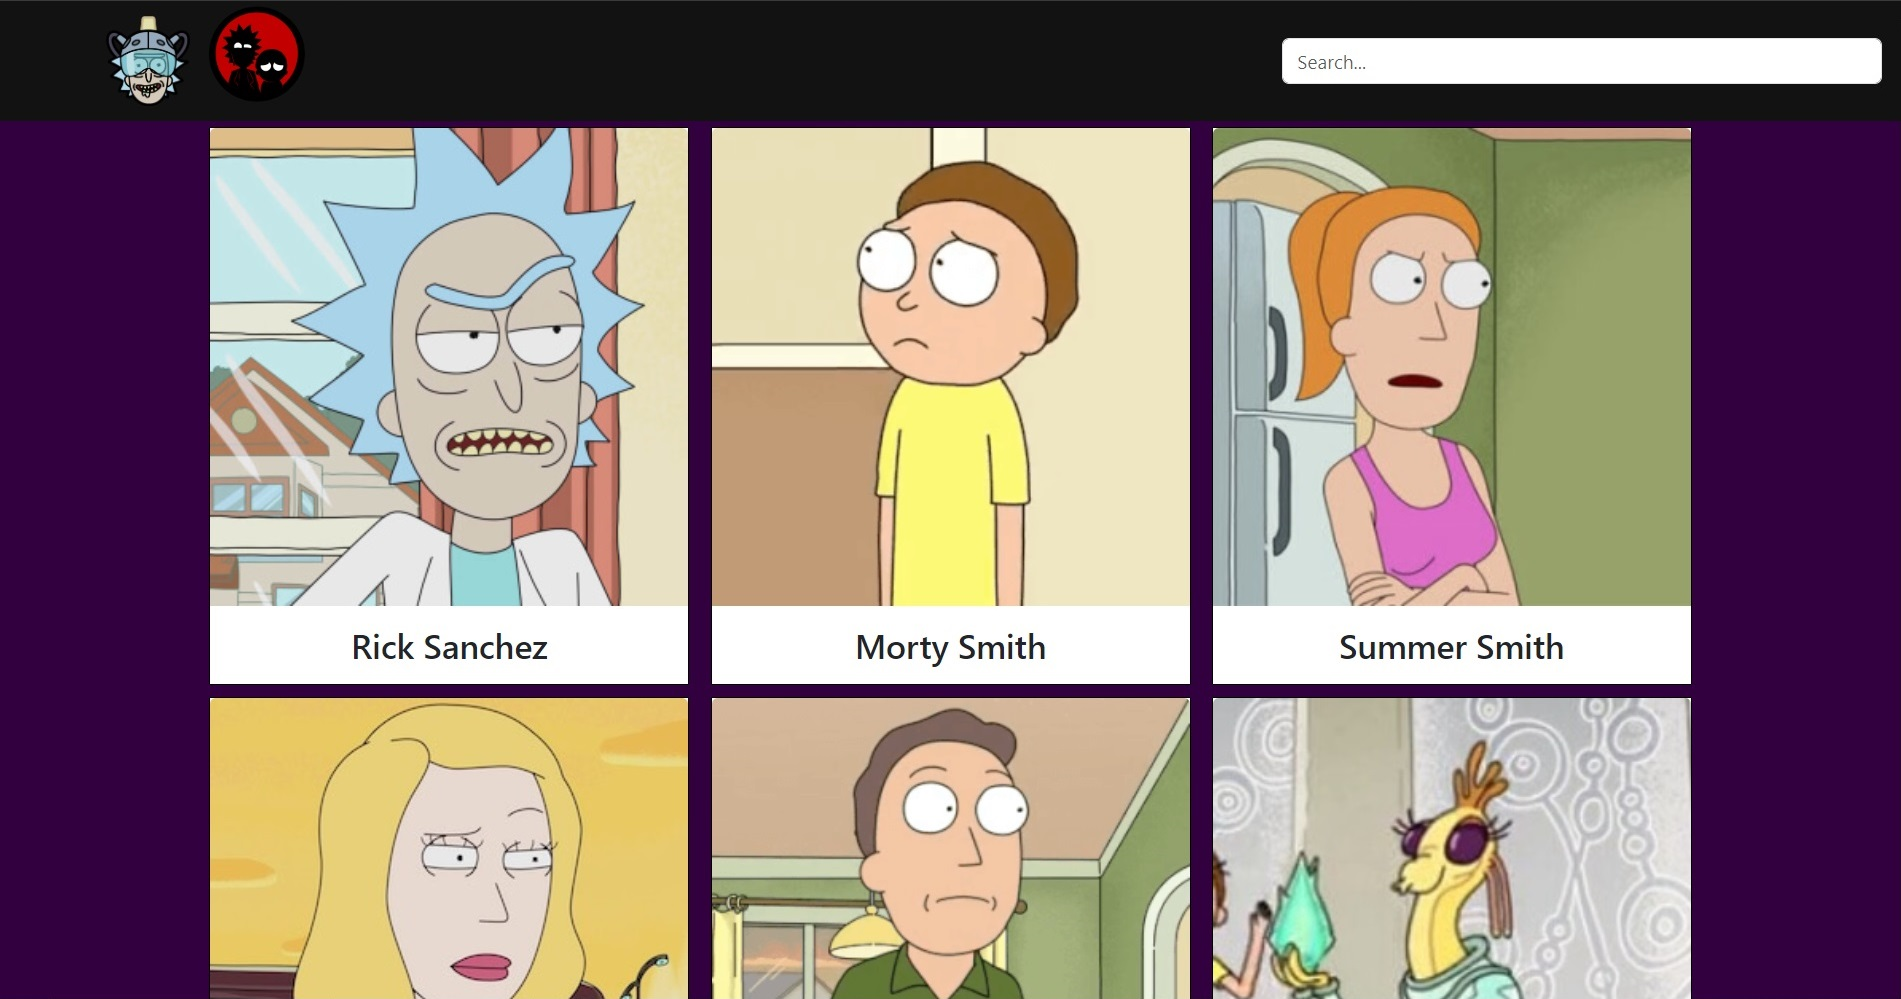
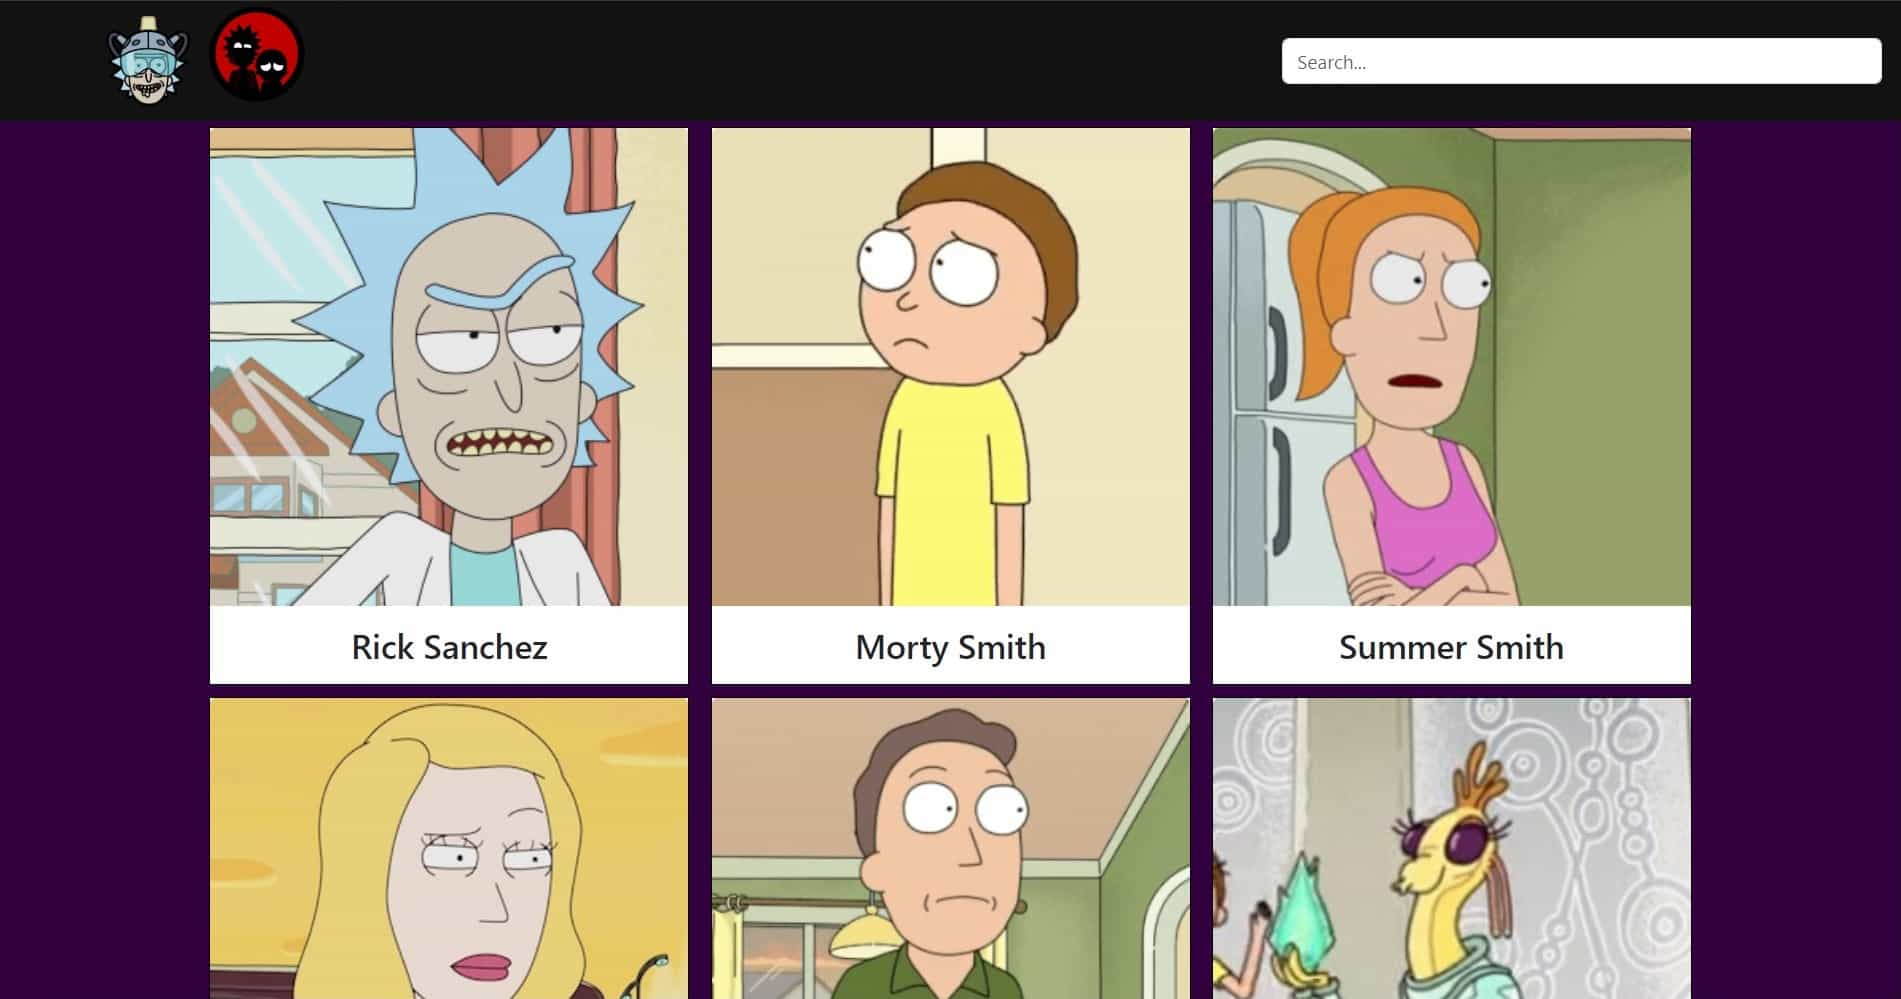
size down images

diff --git a/src/dataBase/PROYECTS.js b/src/dataBase/PROYECTS.js
@@ -1,5 +1,3 @@
-import videoPrueba from './prueba.jpeg';
-import videoPruebaMobile from './pruebaMobile.jpeg';
 import imagen01 from './picture-web-projects/01.jpg';
 import imagen02 from './picture-web-projects/02.jpg';
 import imagen03 from './picture-web-projects/03.jpg';
@@ -17,6 +15,7 @@ export const PROJECTS_WEB = [
     //     page: "https://rick-and-morty-all-characters.netlify.app/",
     //     description: "Lorem Ipsum is simply dummy text of the printing and typesetting industry. Lorem Ipsum has been the industry's standard dummy text ever since the 1500s, when an unknown printer took a galley of type and scrambled it to make a type specimen book. It has survived not only five centuries, but also the leap into electronic typesetting, remaining essentially unchanged. It was popularised in the 1960s with the release of Letraset sheets containing Lorem Ipsum passages, and more recently with desktop publishing software like Aldus PageMaker including versions of Lorem Ipsum."
     // },
+
     {
         id: 3,
         name: "Rick & Morty",
